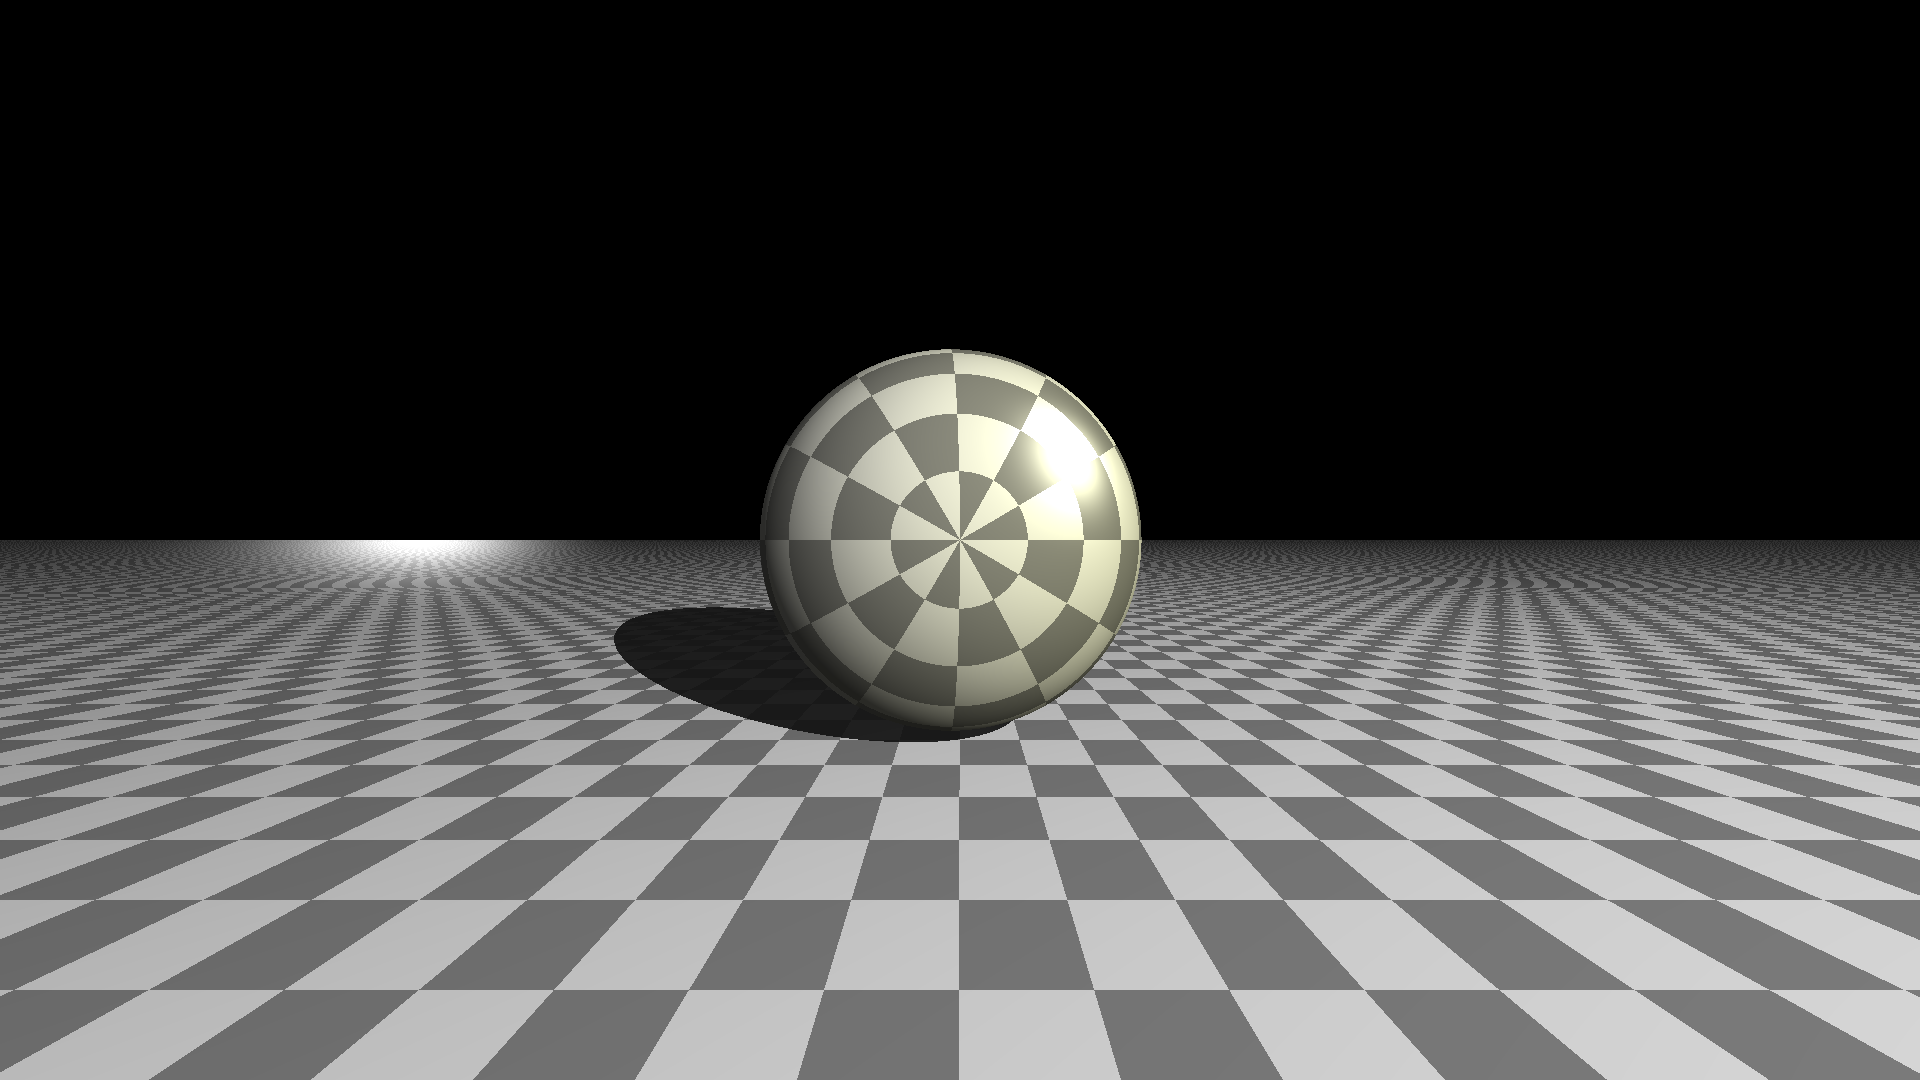
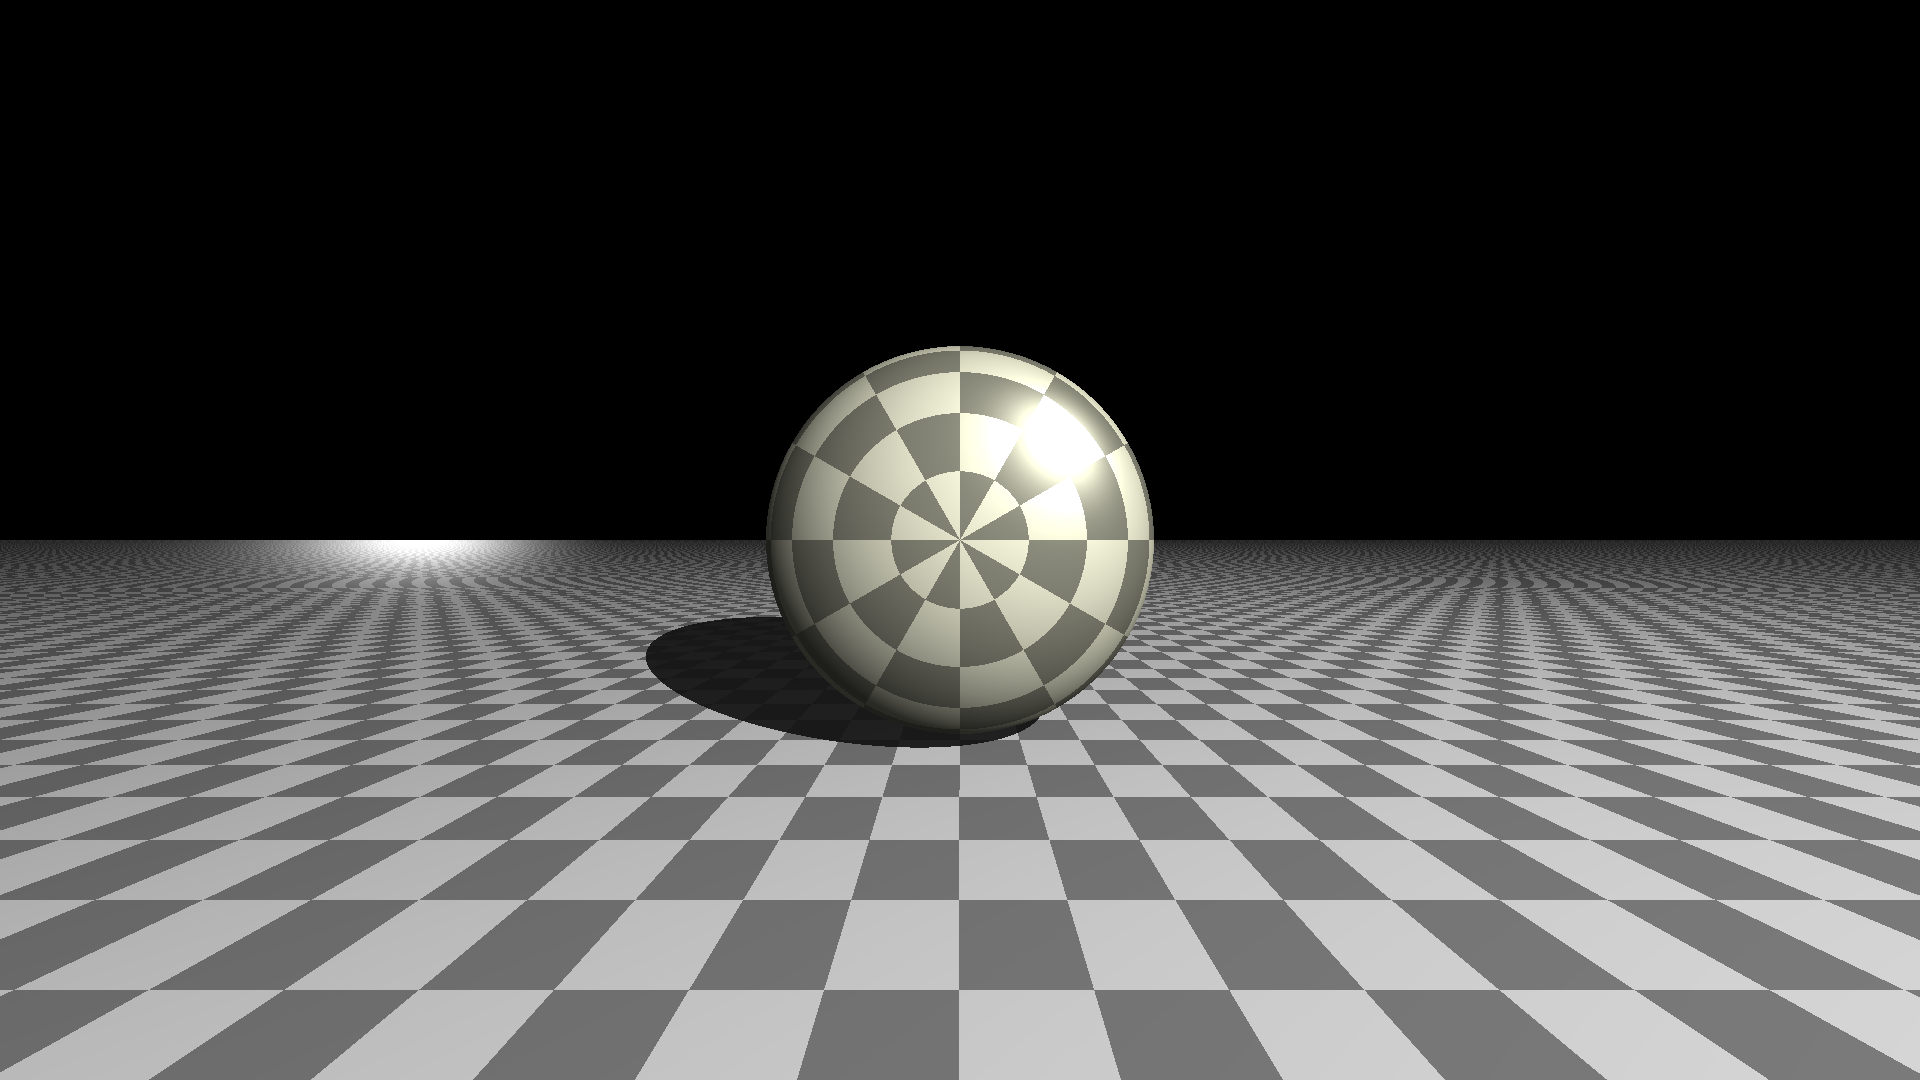
update example_animation.py
试试example_animation.py
是一个0.3c从左到右的球体

diff --git a/example_animation.py b/example_animation.py
@@ -4,7 +4,7 @@ from my_raytracer import *
 shape1= Sphere(.5, get_checkerboard_color_func(WHITE, GRAY))
 #shape1= Cube(1,1,1, get_cubical_checkerboard_color_func(RED_E, WHITE, .1))
 shape2= Plane(vec3(0,0,0), vec3(0,1,0), diffuse_color_function= get_cubical_checkerboard_color_func(GREY, WHITE, .15))
-beta1 = (0, 0, 0)
+beta1 = (0.3, 0, 0)
 beta2 = (0, 0, 0)
 offset1 = vec4(0, 0, 0, 1.5)
 offset2 = vec4(0, 0, -.5, 0)
@@ -14,12 +14,14 @@ object2= MovingObject(shape2, beta2, offset2)
 movingobjects= [object1, object2]
 
 scene= Scene(movingobjects)
-frames= 10
-t00= time.time()
-for u, frame_count in np.linspace([0,1],[0.5,frames], frames):
-    print('开始渲染第%s帧...' % int(frame_count), end= '')
-    object1.set_beta((u, 0, 0))
-    scene.generate_image(1, os.path.join('./render', f"{int(frame_count)}.png"))
-    t1= time.time()
-    print("预计剩余%i分钟" % ((t1-t00)/frame_count*(frames-frame_count)/60))
+scene.generate_animation(-6, 5, 10, 'render1')
+
+#frames= 10
+#t00= time.time()
+#for u, frame_count in np.linspace([0,1],[0.5,frames], frames):
+#    print('开始渲染第%s帧...' % int(frame_count), end= '')
+#    object1.set_beta((0, 0, u))
+#    scene.generate_image(1, os.path.join('render', f"{int(frame_count)}.png"))
+#    t1= time.time()
+#    print("预计剩余%i分钟" % ((t1-t00)/frame_count*(frames-frame_count)/60))
 print('渲染完成')
